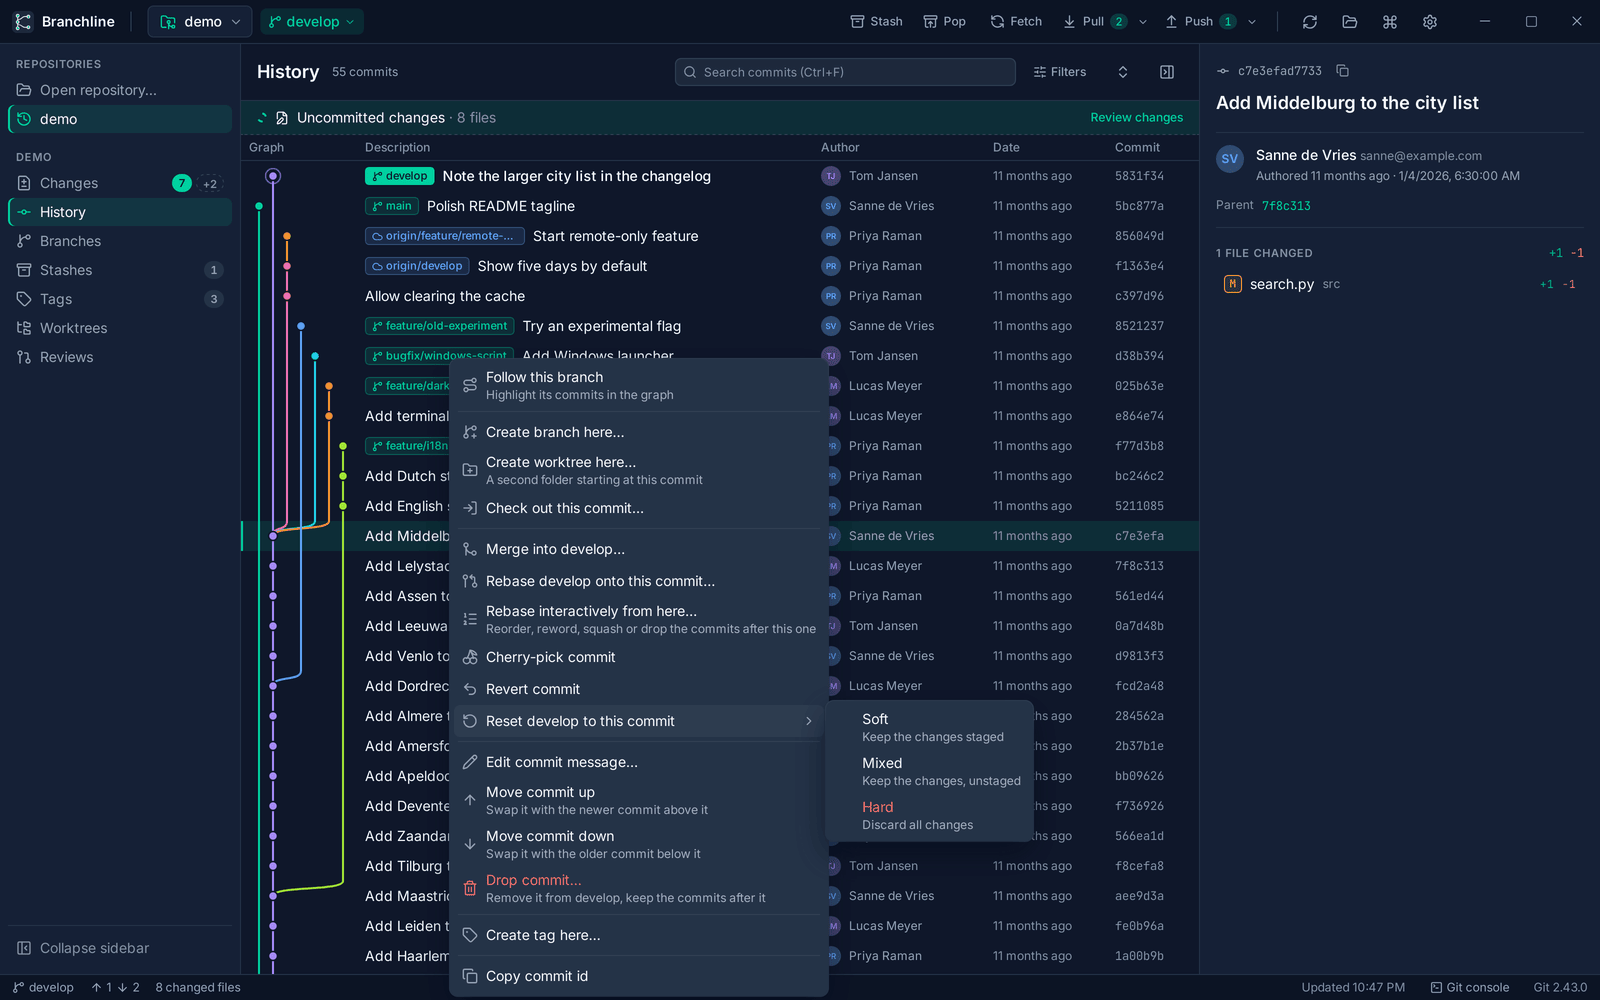
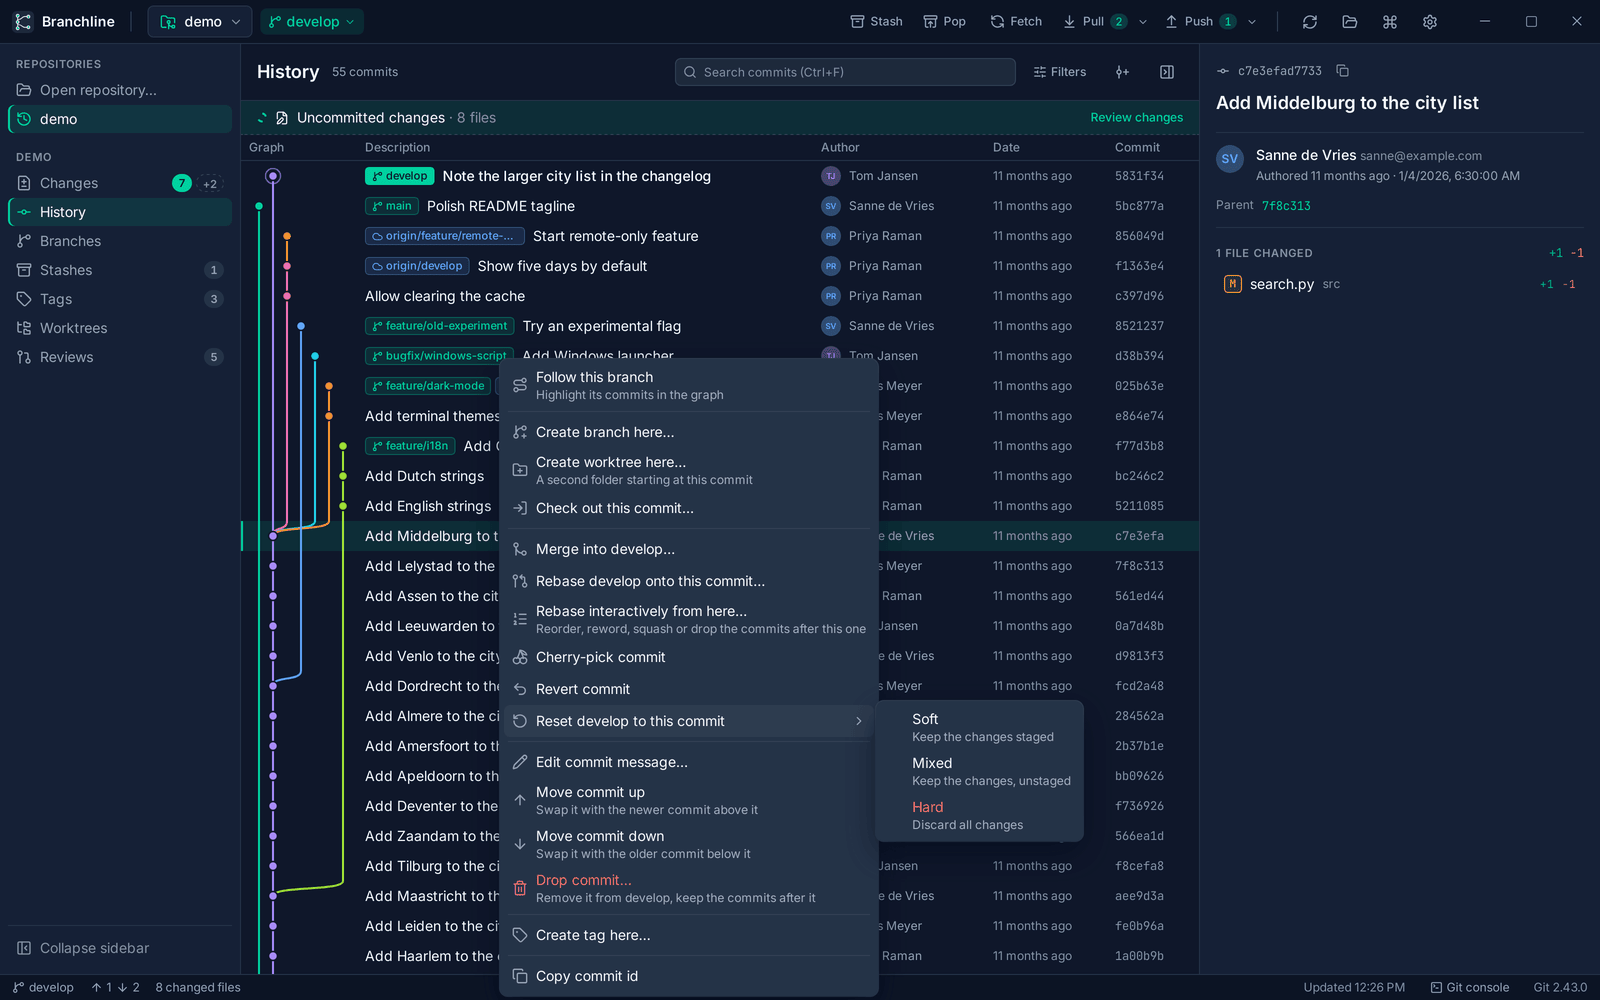
chore: release 0.4.1
- Bump version to 0.4.1
- Changelog for 0.4.1: Run Git hooks switch, Show in History for tags,
  clearer icon for collapsing merged branches, Refresh focus fix
- README: mention skipping hooks and jumping from a tag to its commit
- Refresh the screenshots that show the commit box, the History toolbar
  or older layouts

Changed region(s): [[0.2812, 0.341, 0.6875, 1.0], [0.8125, 0.961, 0.875, 0.992]]

diff --git a/README.md b/README.md
@@ -7,7 +7,7 @@
 **See the flow of your code: a fast, friendly Git desktop client that shows what Git is
 doing and lets you do it with a click.**
 
-**Version 0.4.0** · [download](https://gitlab.com/bytefulminds/branchline/-/releases) for Windows, macOS and Linux
+**Version 0.4.1** · [download](https://gitlab.com/bytefulminds/branchline/-/releases) for Windows, macOS and Linux
 
 [![pipeline](https://gitlab.com/bytefulminds/branchline/badges/main/pipeline.svg)](https://gitlab.com/bytefulminds/branchline/-/pipelines)
 ![license: MIT](https://img.shields.io/badge/license-MIT-00D1A0)
@@ -103,7 +103,8 @@ both, or type the result yourself.
 The Git console (Ctrl+J) shows every Git command Branchline runs, with its exit code, timing
 and output. When a commit hook such as Husky or lint-staged says no, "Show Git output" takes
 you straight to the reason. Hooks find the same tools as in your terminal, also when you
-start Branchline from the Dock.
+start Branchline from the Dock, and when you need to commit past them, turn off "Run Git
+hooks" in the commit box.
 
 <p align="center">
   <img src="docs/screenshots/git-console.png" alt="A commit stopped by a pre-commit hook, and the Git console showing the failed command with the linter's messages" width="900">
@@ -161,11 +162,11 @@ Branchline lists every open-source package it is built with, with its license.
 </p>
 
 And more: clone or create repositories, fetch, pull and push with live progress and Cancel,
-stashes (also "stash, pull and reapply" when local changes are in the way), tags, worktrees,
-cherry-pick and revert (several commits at once), file history, a file system watcher that
-picks up changes from your editor within a second, full keyboard control with screen reader
-support, and automatic updates when you agree (on Linux, a note with a link to the new
-release).
+stashes (also "stash, pull and reapply" when local changes are in the way), tags (one click
+takes you to their commit in History), worktrees, cherry-pick and revert (several commits at
+once), file history, a file system watcher that picks up changes from your editor within a
+second, full keyboard control with screen reader support, and automatic updates when you
+agree (on Linux, a note with a link to the new release).
 
 ## Getting started
 

diff --git a/CHANGELOG.md b/CHANGELOG.md
@@ -7,6 +7,28 @@ description on GitLab.
 
 ## [Unreleased]
 
+## [0.4.1] - 2026-11-23
+
+A few small additions: commit without running your Git hooks when you need to, jump from a tag
+straight to its commit in History, and a clearer button for folding merged branches.
+
+### Added
+
+- A "Run Git hooks" switch in the commit box, on by default. Turned off, commits skip the
+  pre-commit and commit-msg hooks (git commit --no-verify). The choice is kept per repository
+  until Branchline closes.
+- "Show in History" in the menu of a tag opens History with the tagged commit selected and in
+  view.
+
+### Changed
+
+- The button that collapses merged branches shows the graph's state: a branch beside the main
+  line while merged branches are shown, and a commit with a plus while they are folded.
+
+### Fixed
+
+- The Refresh button gets its keyboard focus back right away when a refresh finishes.
+
 ## [0.4.0] - 2026-11-21
 
 History becomes a place to tidy up your branch: reset it to a commit, edit a message, move a
